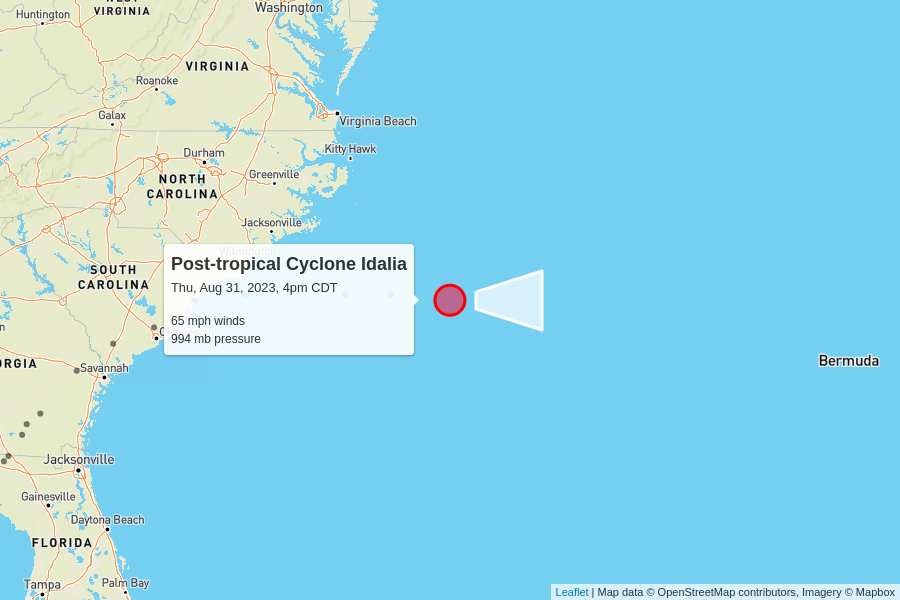
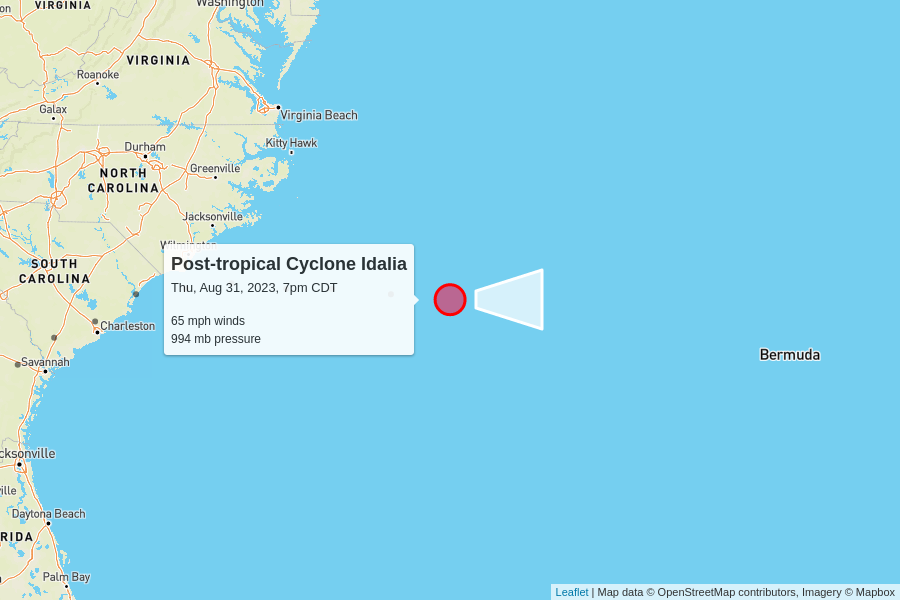
automatic update

diff --git a/docs/index.html b/docs/index.html
@@ -97,6 +97,50 @@
 
     <table>
       <tr>
+        <td colspan="6" class="storm category-0" >
+          <h2>
+            Post-tropical Cyclone Idalia
+            <p class="updated">last updated <span data-time>2023-09-01T00:00:00.000Z</span></p>
+          </h2>
+        </td>
+      </tr>
+      
+      <tr>
+        <th class="spacer"></th>
+        <th>wind speed</th>
+        <th>central pressure</th>
+        <th>movement</th>
+        <th>data (CSV)</th>
+        <th>National Hurricane Center</th>
+      </tr>
+      <tr>
+        <td class="spacer"></td>
+        <td>65 mph</td>
+        <td>994 mb</td>
+        <td>
+          21 mph to the east
+          <br/>
+          <span style="display: inline-block; font-size: 1.5em; transform: rotate(90deg);">↑</span>
+        </td>
+        <td><a href="https://raw.githubusercontent.com/mgwalker/atlantic-hurricanes/main/data/csv/AL102023.csv">AL102023.csv</a></td>
+        <td><a href="https://www.nhc.noaa.gov/archive/2023/IDALIA.shtml?">NHC advisories</a></td>
+      </tr>
+      <tr id="storm_AL102023" >
+        <td class="spacer">
+        <td colspan="5">
+          <figure>
+            <img src="AL102023.png">
+            <figcaption>
+              Map data &copy; <a href="https://www.openstreetmap.org/copyright">OpenStreetMap</a> contributors,
+              Imagery &copy; <a href="https://www.mapbox.com/">Mapbox</a> |
+              <a href="https://www.mapbox.com/map-feedback/" target="_blank">Improve this map</a>
+            </figcaption>
+          </figure>
+        </td>
+      </tr>
+      
+
+      <tr>
         <td colspan="6" class="storm category-1" >
           <h2>
             Hurricane Franklin - Category 1
@@ -174,50 +218,6 @@
         <td colspan="5">
           <figure>
             <img src="AL112023.png">
-            <figcaption>
-              Map data &copy; <a href="https://www.openstreetmap.org/copyright">OpenStreetMap</a> contributors,
-              Imagery &copy; <a href="https://www.mapbox.com/">Mapbox</a> |
-              <a href="https://www.mapbox.com/map-feedback/" target="_blank">Improve this map</a>
-            </figcaption>
-          </figure>
-        </td>
-      </tr>
-      
-
-      <tr>
-        <td colspan="6" class="storm category-0" >
-          <h2>
-            Post-tropical Cyclone Idalia
-            <p class="updated">last updated <span data-time>2023-08-31T21:00:00.000Z</span></p>
-          </h2>
-        </td>
-      </tr>
-      
-      <tr>
-        <th class="spacer"></th>
-        <th>wind speed</th>
-        <th>central pressure</th>
-        <th>movement</th>
-        <th>data (CSV)</th>
-        <th>National Hurricane Center</th>
-      </tr>
-      <tr>
-        <td class="spacer"></td>
-        <td>65 mph</td>
-        <td>994 mb</td>
-        <td>
-          21 mph to the east
-          <br/>
-          <span style="display: inline-block; font-size: 1.5em; transform: rotate(90deg);">↑</span>
-        </td>
-        <td><a href="https://raw.githubusercontent.com/mgwalker/atlantic-hurricanes/main/data/csv/AL102023.csv">AL102023.csv</a></td>
-        <td><a href="https://www.nhc.noaa.gov/archive/2023/IDALIA.shtml?">NHC advisories</a></td>
-      </tr>
-      <tr id="storm_AL102023" >
-        <td class="spacer">
-        <td colspan="5">
-          <figure>
-            <img src="AL102023.png">
             <figcaption>
               Map data &copy; <a href="https://www.openstreetmap.org/copyright">OpenStreetMap</a> contributors,
               Imagery &copy; <a href="https://www.mapbox.com/">Mapbox</a> |
